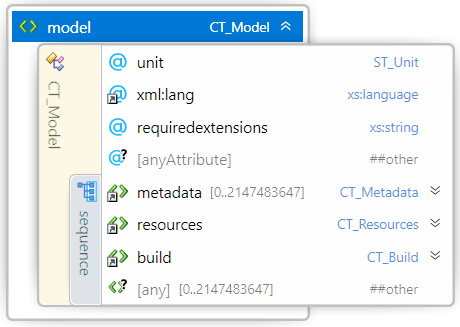
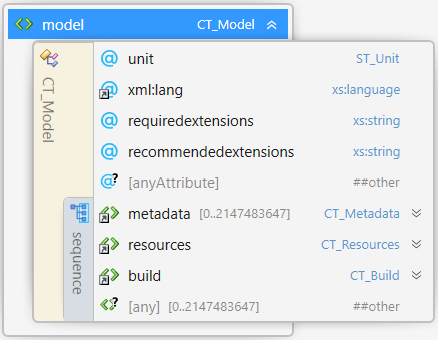
Add recommendedextensions to XSD and images, Fix typos

Changed region(s): [[0.0, 0.0, 1.0, 1.0], [0.8014, 0.3364, 0.9201, 0.5505], [0.742, 0.2446, 0.9201, 0.3058]]

diff --git a/3MF Core Specification.md b/3MF Core Specification.md
@@ -49,7 +49,7 @@ THESE MATERIALS ARE PROVIDED "AS IS." The contributors expressly disclaim any wa
     + [6.2. Core Properties](#62-core-properties)
     + [6.3. Digital Signatures](#63-digital-signatures)
     + [6.4. Protected Content](#64-protected-content)
-- [Part II. Appendixes](#part-ii-appendixes)
+- [Part II. Appendices](#part-ii-appendices)
   * [Appendix A. Glossary](#appendix-a-glossary)
   * [Appendix B.1. 3MF XSD Schema](#appendix-b1-3mf-xsd-schema)
   * [Appendix B.2. 3MF Metadata Example](#appendix-b2-3mf-metadata-example)
@@ -74,7 +74,7 @@ The 3MF Consortium offers [a free to use open source implementation](https://git
 
 Part I, "3MF Documents," presents the details of the primarily XML-based 3MF Document format. This section describes the XML markup that defines the composition of 3D documents and the appearance of each model within the document.
 
-Part II, "Appendixes," contains additional technical details and schemas too extensive to include in the main body of the text as well as convenient reference information.
+Part II, "Appendices," contains additional technical details and schemas too extensive to include in the main body of the text as well as convenient reference information.
 
 The information contained in this specification is subject to change. Every effort has been made to ensure its accuracy at the time of publication.
 
@@ -626,7 +626,7 @@ Element **\<t:trianglesets>**
 
 ![trianglesets](images/element_trianglesets.png)
 
-A _mesh node_ MAY contain a _trianglesets node_ that contains information how triangles are grouped and organized. Trianglesets and their child nodes MUST live under the core extension namespace for Triangle Sets (*http://schemas.microsoft.com/3dmanufacturing/trianglesets/2021/07*)
+A _mesh node_ MAY contain a _trianglesets node_ that contains information how triangles are grouped and organized. Trianglesets and their child nodes MUST live under the core extension namespace for Triangle Sets (*http://schemas.microsoft.com/3dmanufacturing/trianglesets/2021/07*).
 
 
 A \<t:trianglesets> element acts as a container for <t:triangleset> nodes. The order of these elements forms an implicit 0-based index that MAY be referenced externally by their identifier.
@@ -662,7 +662,7 @@ Element **\<t:ref>**
 | --- | --- | --- | --- | --- |
 | index   | **ST\_ResourceIndex**   | required   |   | References an index in the mesh triangle list. |
 
-A \<ref> element in a triangle set refers to the zero-based indexed \<triangle> elements that are contained in the _triangles node._
+A \<ref> element in a triangle set refers to the zero-based indexed \<triangle> elements that are contained in the _triangles node_.
 
 
 #### 4.1.5.3 Triangle Set Reference Ranges
@@ -677,7 +677,7 @@ Element **\<t:refrange>**
 | endindex   | **ST\_ResourceIndex**   | required   |   | References the end index of the reference range in the mesh triangle list. |
 
 A \<refrange> element in a triangle set refers to the zero-based indexed \<triangle> elements that are contained in the _triangles node._
-The \<refrange> element inserts into the parent triangle set all triangles from the _triangles node_ with index between inclusively startindex and the endindex
+The \<refrange> element inserts into the parent triangle set all triangles from the _triangles node_ with index between inclusively startindex and the endindex.
 
 
 ### 4.1.6. Mesh Mirror Transforms
@@ -874,7 +874,7 @@ The Open Packaging Conventions specification provides full details of how conten
 
 A consumer that is authorized to un-protect content by reversing the above steps MUST NOT re-save the content or enable the user to save the content in an unprotected fashion (regardless of file format) without the approval (written or programmatic) of the _protection authority_ (which might or might not be the producer).
 
-# Part II. Appendixes
+# Part II. Appendices
 
 ## Appendix A. Glossary
 
@@ -995,6 +995,7 @@ A consumer that is authorized to un-protect content by reversing the above steps
 		<xs:attribute name="unit" type="ST_Unit" default="millimeter"/>
 		<xs:attribute ref="xml:lang"/>
 		<xs:attribute name="requiredextensions" type="xs:string"/>
+		<xs:attribute name="recommendedextensions" type="xs:string"/>
 		<xs:anyAttribute namespace="##other" processContents="lax"/>
 	</xs:complexType>
 	<xs:complexType name="CT_Resources">
